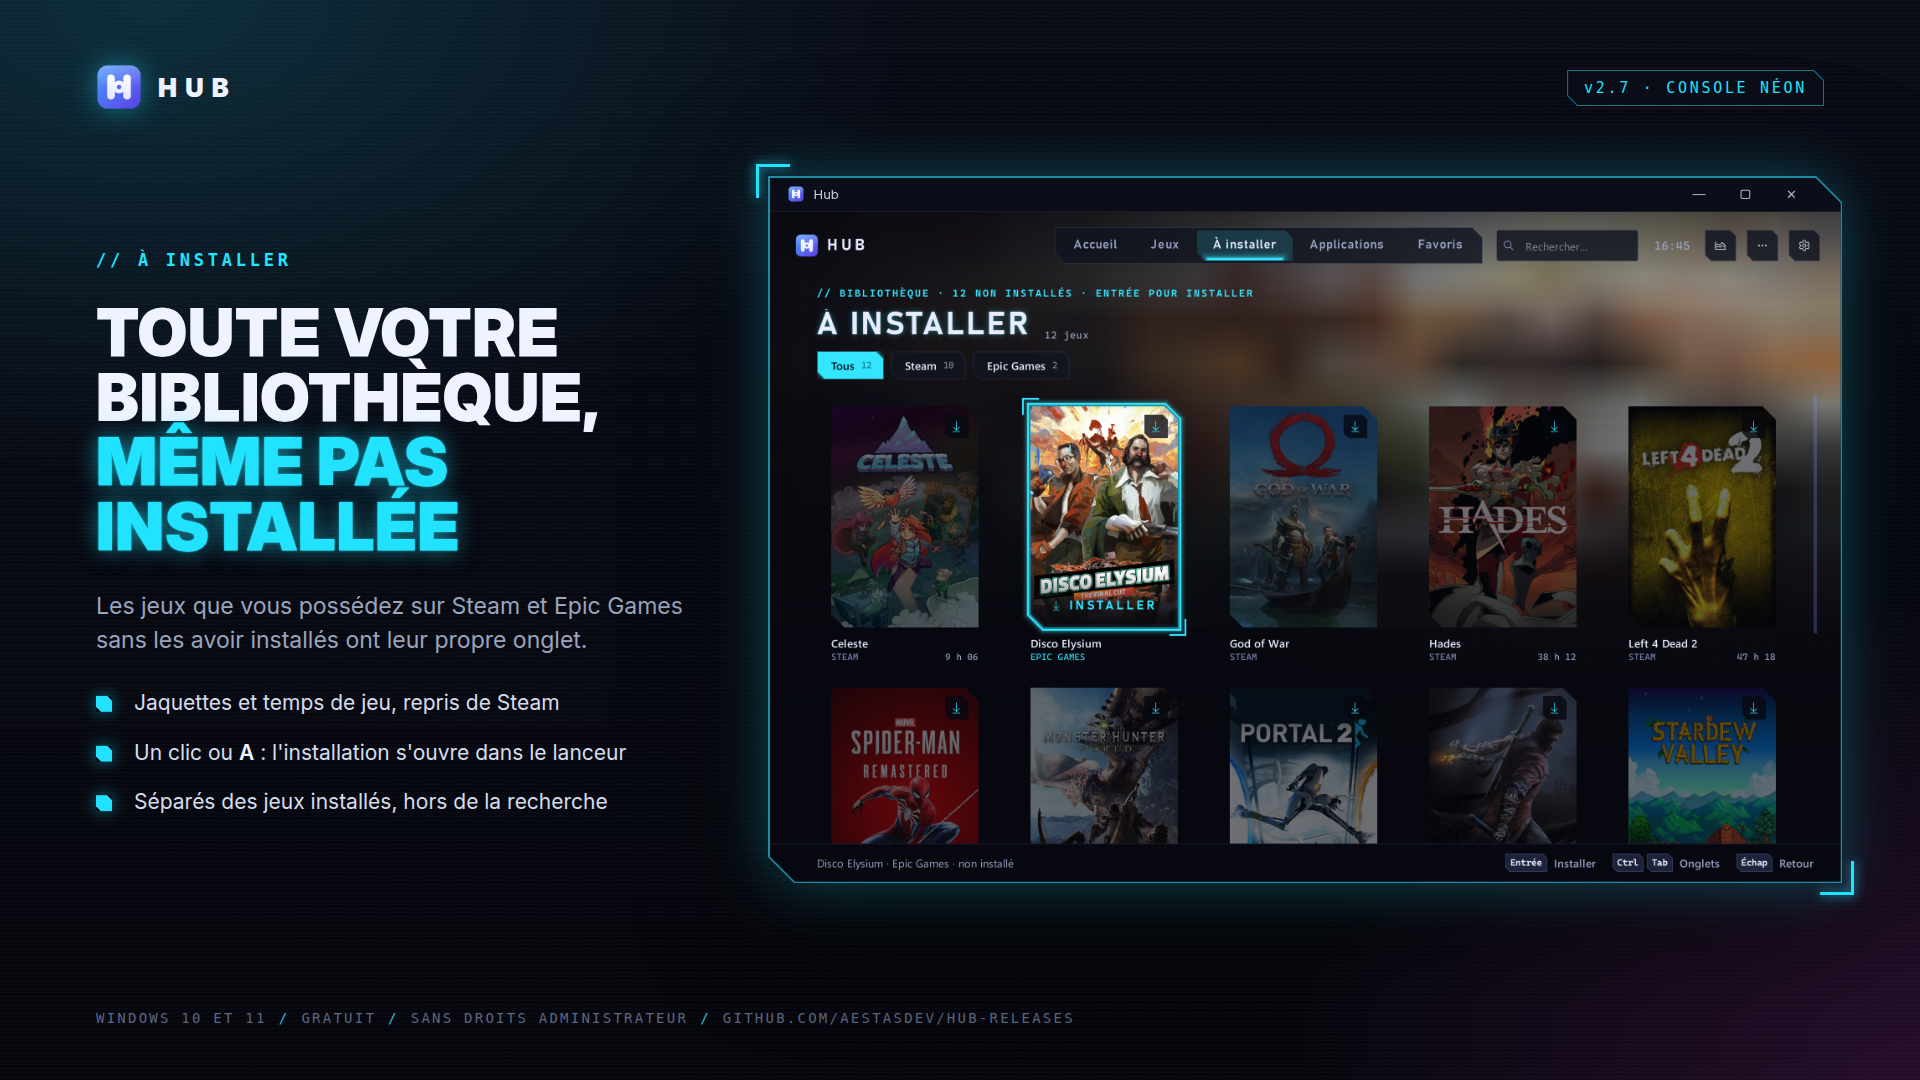
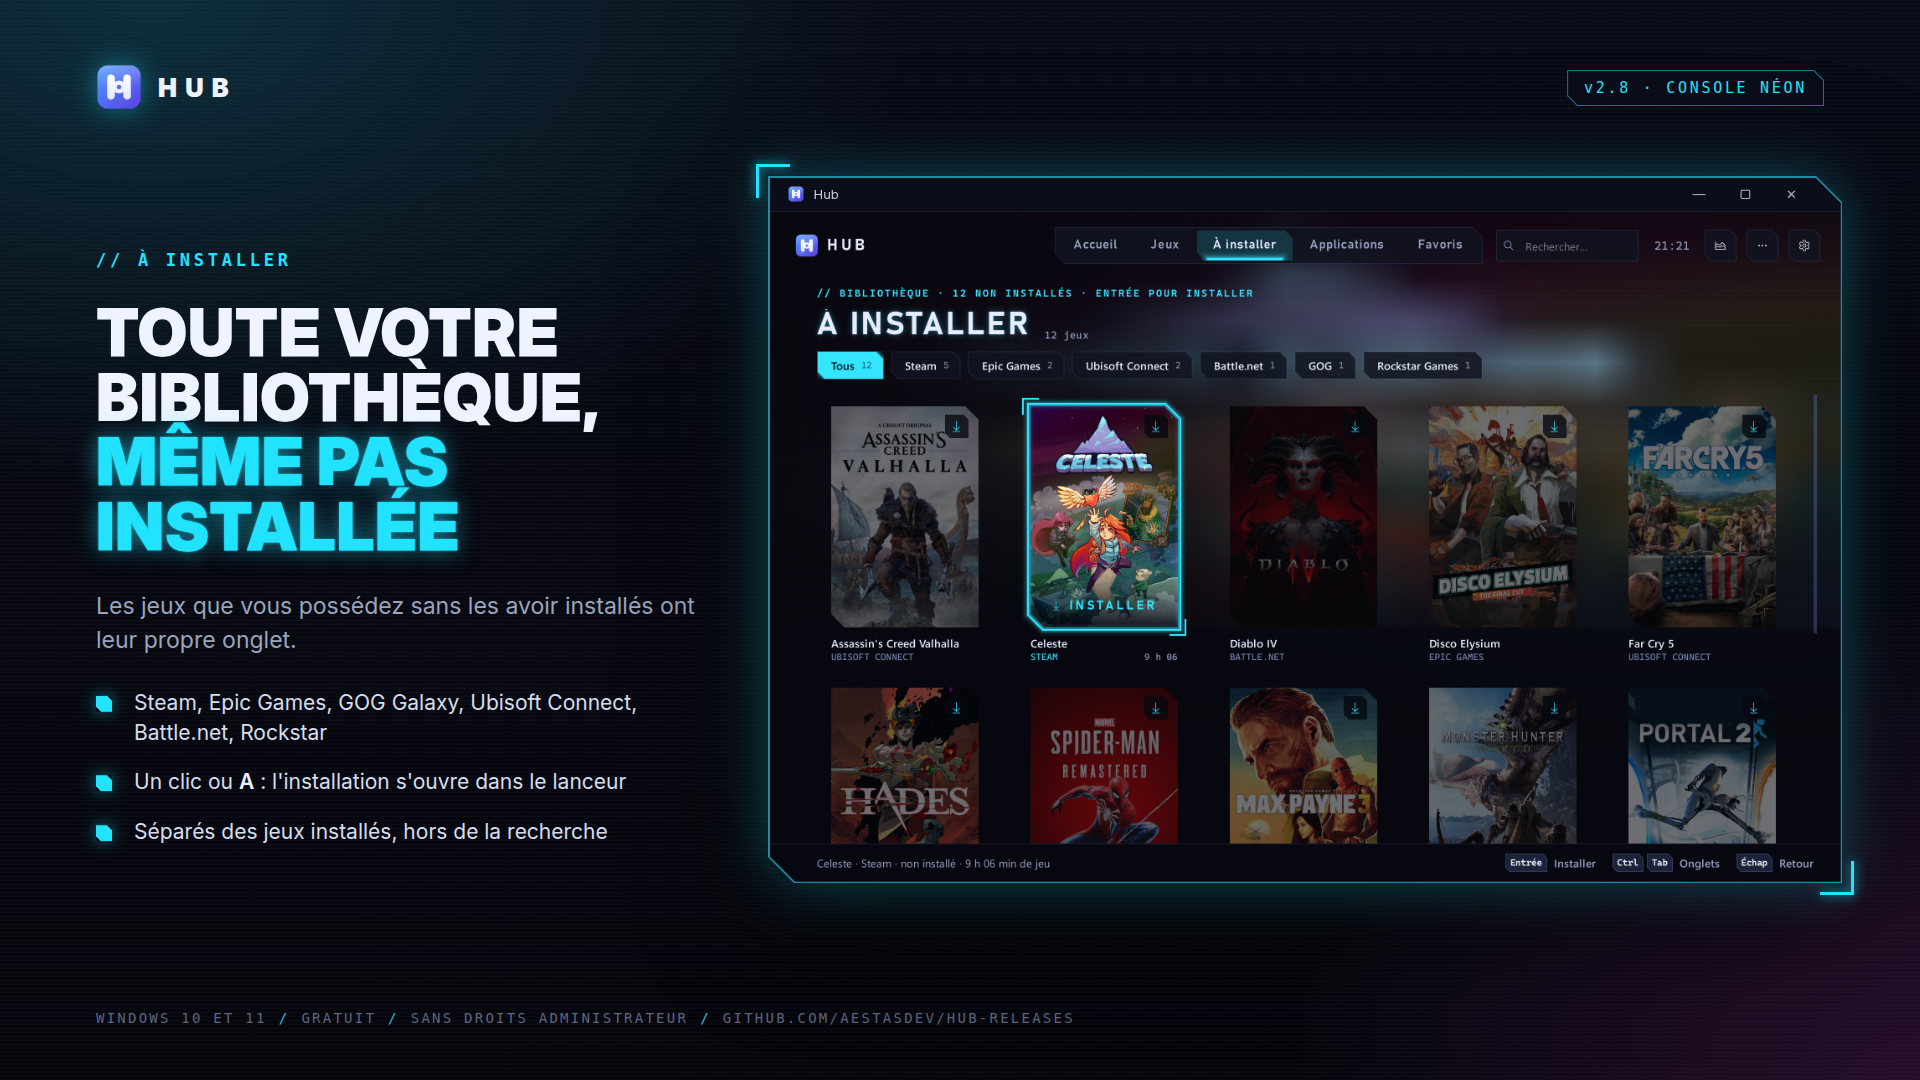
Visuels 2.8 : jeux à installer de GOG, Ubisoft, Battle.net et Rockstar

Changed region(s): [[0.4062, 0.1833, 0.9688, 0.825], [0.0312, 0.6417, 0.3438, 0.7944], [0.0312, 0.55, 0.375, 0.6111]]

diff --git a/README.md b/README.md
@@ -22,10 +22,11 @@
 - **Interface façon console**, style néon : vos jeux avec leurs vraies jaquettes, le dernier joué en grand
   avec son illustration officielle et un bouton « Jouer ».
 - **Détection automatique** des applications installées : menu Démarrer, Microsoft Store, Steam, Epic Games,
-  GOG, Ubisoft Connect, Battle.net, EA app, Riot, Heroic, Playnite, et les programmes sans raccourci
-  présents sur tous les disques.
-- **Jeux à installer** : un onglet à part pour les jeux de vos bibliothèques Steam et Epic Games qui ne sont
-  pas installés, avec leur jaquette ; un clic ouvre leur installation.
+  GOG, Ubisoft Connect, Battle.net, EA app, Riot, Rockstar Games, Heroic, Playnite, et les programmes sans
+  raccourci présents sur tous les disques.
+- **Jeux à installer** : un onglet à part pour les jeux de vos bibliothèques Steam, Epic Games, GOG Galaxy et
+  Ubisoft Connect qui ne sont pas installés, et pour les jeux Battle.net et Rockstar déjà lancés sur ce PC ;
+  un clic ouvre leur installation.
 - **Temps de jeu Steam** repris automatiquement : le bon jeu est mis en avant dès le premier lancement.
 - **Manette Xbox** : le Hub se pilote entièrement à la manette, comme une console.
 - **Recherche instantanée** : initiales, fautes de frappe, calculatrice, paramètres Windows, recherche web.
